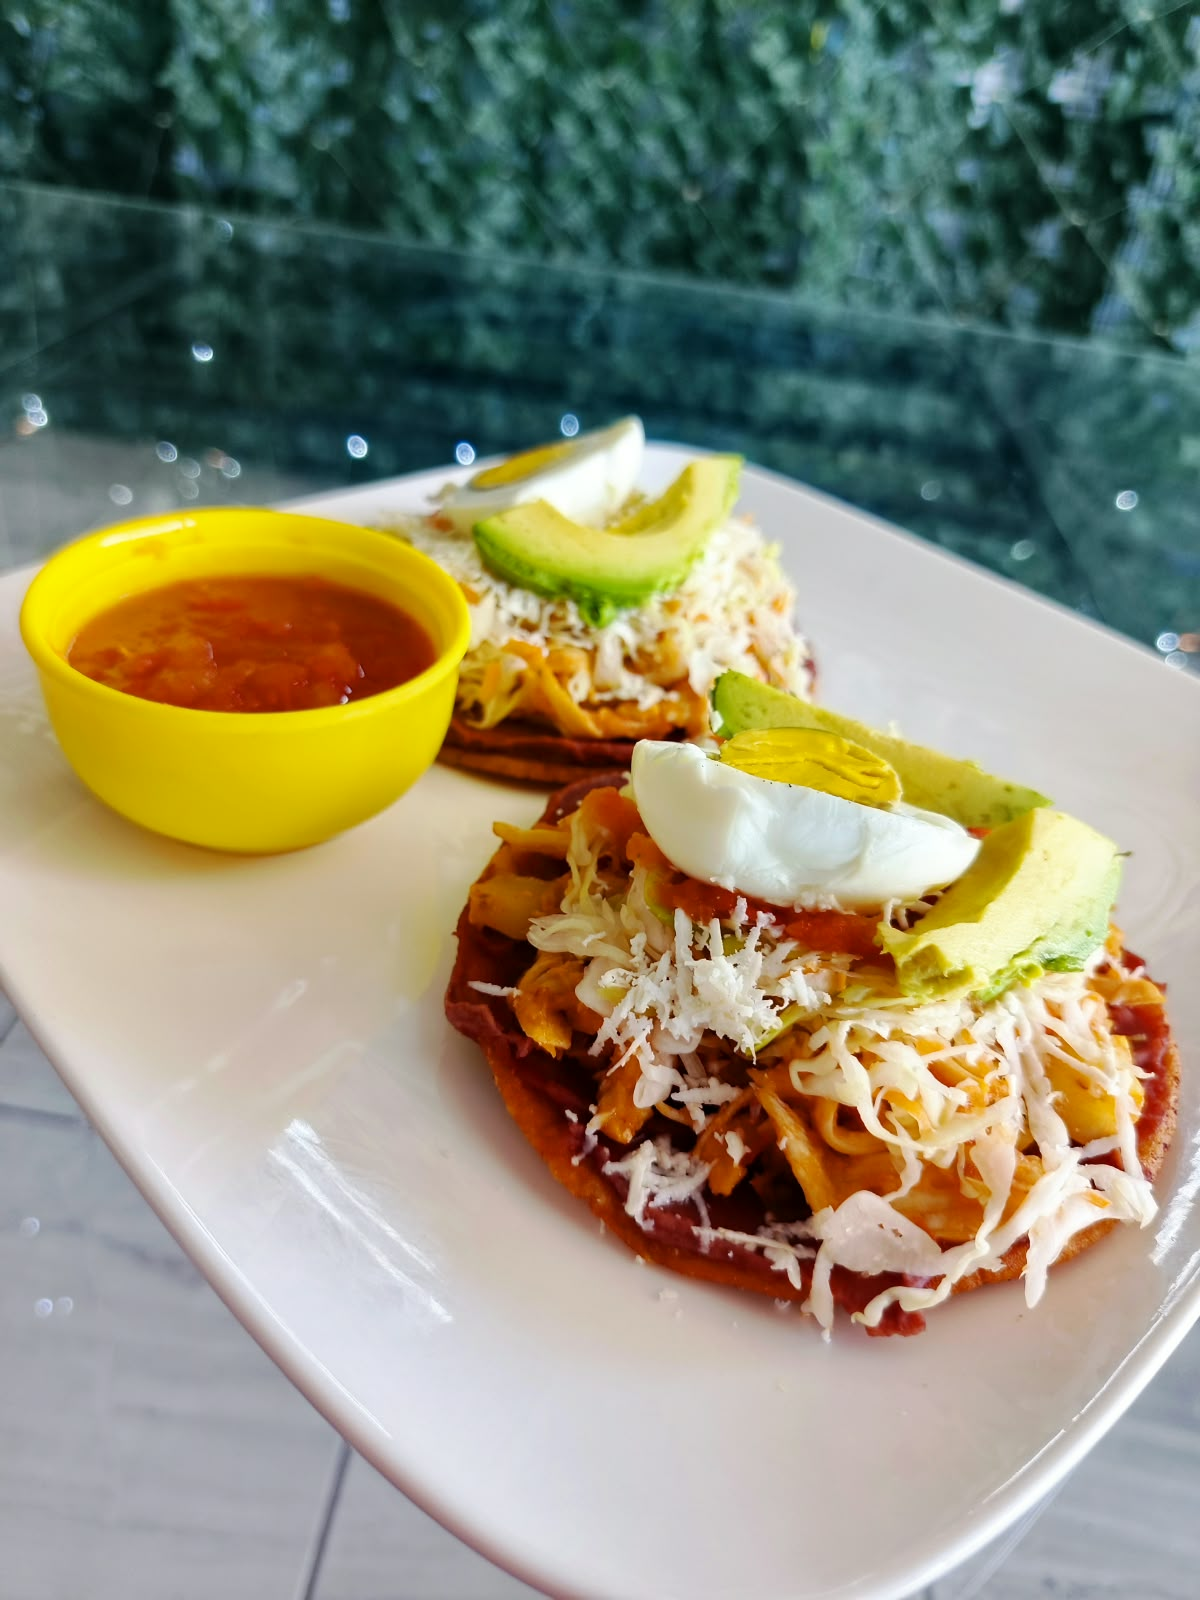
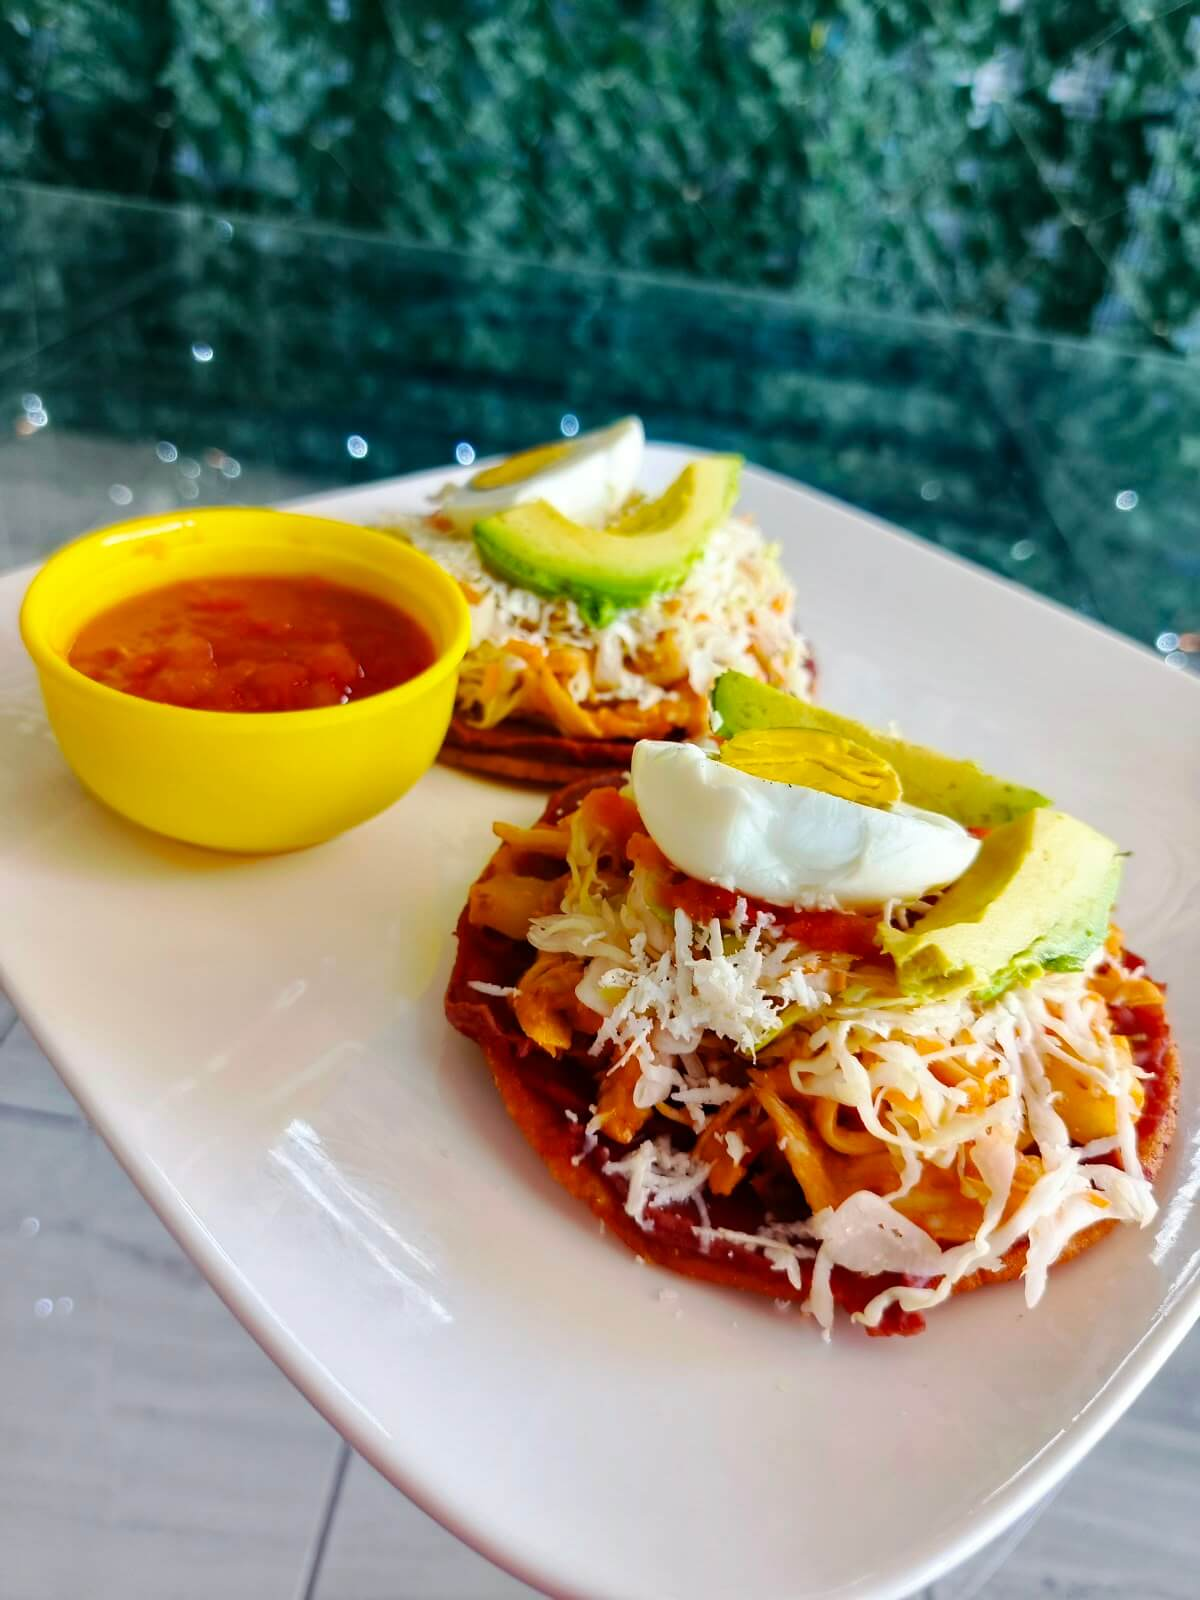
Optimización de imágenes + correcciones QA

diff --git a/index.html b/index.html
@@ -30,6 +30,7 @@
             </ul>
         </nav>
     </header>
+     <main>
 
     <!-- HERO -->
     <section class="hero">
@@ -82,6 +83,7 @@
             <a href="eventos.html" class="btn btn-primary">Ver más</a>
         </div>
     </section>
+    </main>
 
     <!-- FOOTER -->
     <footer class="footer">
